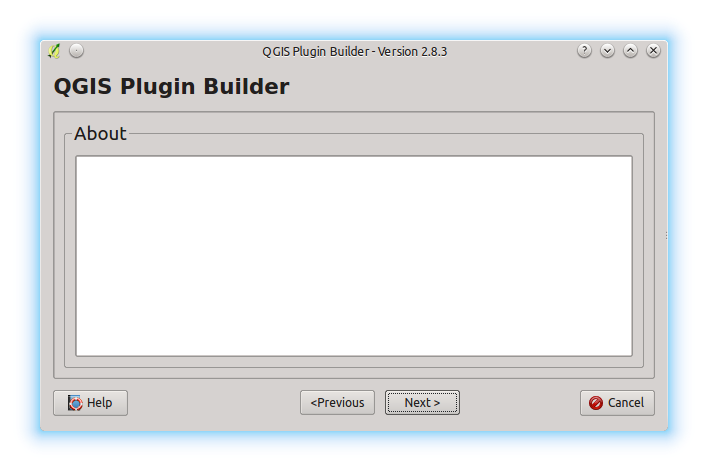
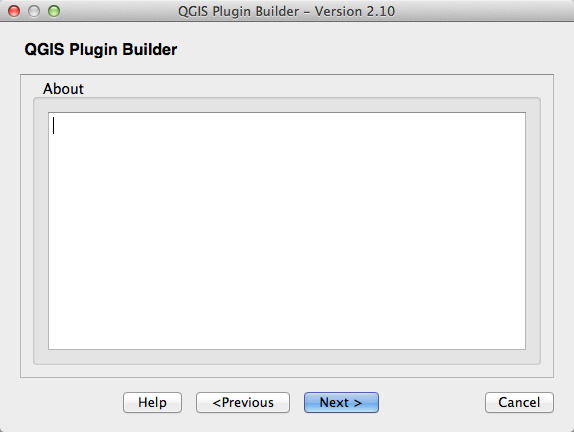
Changes to support version 2.10; add new template support; rename resources_rc to resources to prevent issues when editing dialogs using Qt Designer

diff --git a/plugin_templates/toolbutton_with_dialog/plugin_template.py b/plugin_templates/toolbutton_with_dialog/plugin_template.py
@@ -50,7 +50,7 @@ class ToolbuttonWithDialogPluginTemplate(PluginTemplate):
             'TemplateUiFiles': '%s_dialog_base.ui' % specification.module_name,
             'TemplateExtraFiles': 'icon.png',
             'TemplateQrcFiles': 'resources.qrc',
-            'TemplateRcFiles': "resources_rc.py",
+            'TemplateRcFiles': "resources.py",
             # Menu
             'TemplateMenuText': menu_text,
             'TemplateMenuAddMethod': add_method,

diff --git a/test/test_builder.py b/test/test_builder.py
@@ -93,7 +93,7 @@ class FakePluginSpecification(object):
             'TemplateUiFiles': '%s_dialog_base.ui' % self.module_name,
             'TemplateExtraFiles': 'icon.png',
             'TemplateQrcFiles': 'resources.qrc',
-            'TemplateRcFiles': "resources_rc.py",
+            'TemplateRcFiles': "resources.py",
             # Menu
             'TemplateMenuText': self.menu_text,
             'TemplateMenuAddMethod': 'addPluginToMenu',

diff --git a/help/source/conf.py b/help/source/conf.py
@@ -48,9 +48,9 @@ copyright = u'2011-2015, Gary Sherman'
 # built documents.
 #
 # The short X.Y version.
-version = '2.8.1'
+version = '2.10'
 # The full version, including alpha/beta/rc tags.
-release = '2.8.1'
+release = '2.10'
 
 # The language for content autogenerated by Sphinx. Refer to documentation
 # for a list of supported languages.
